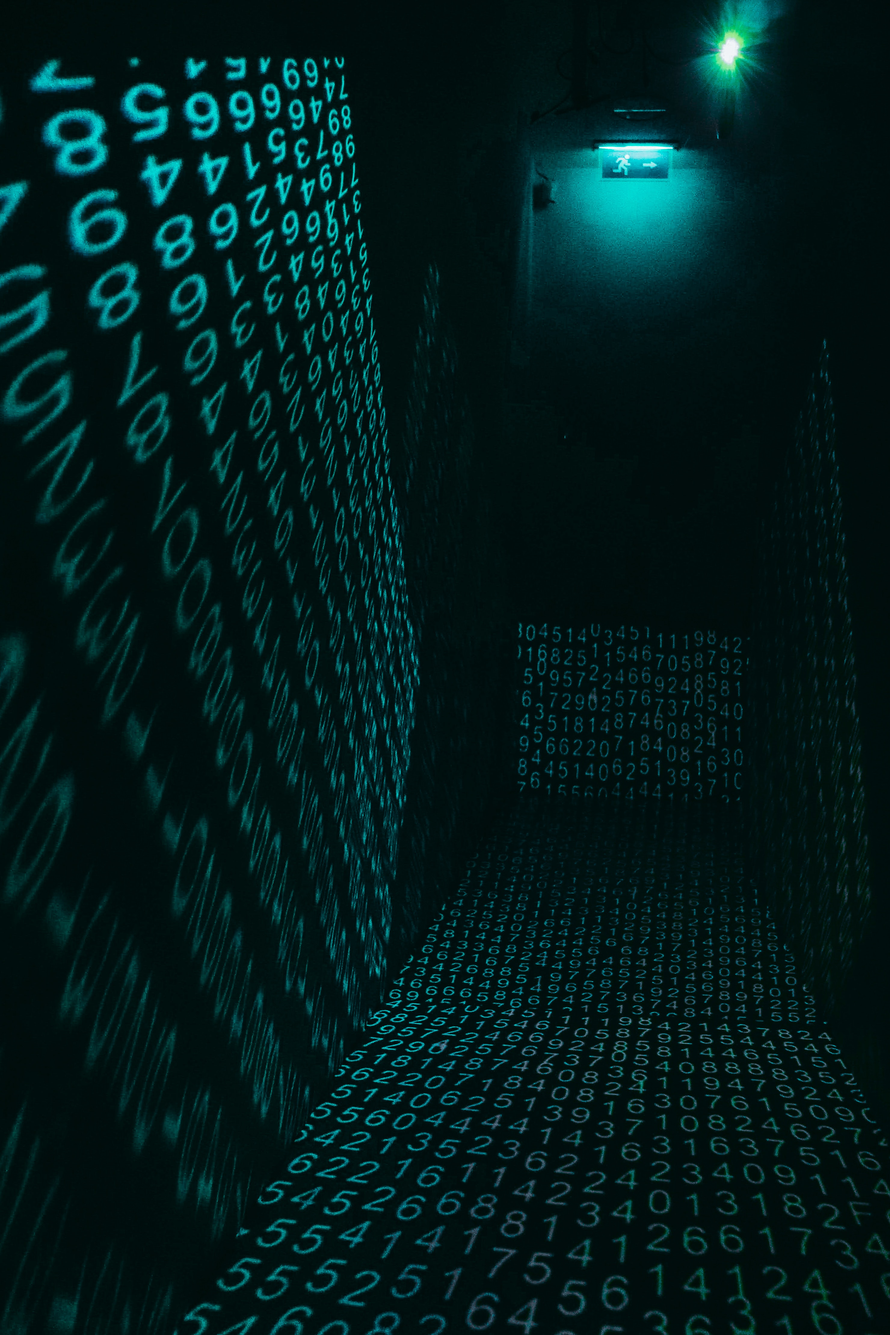
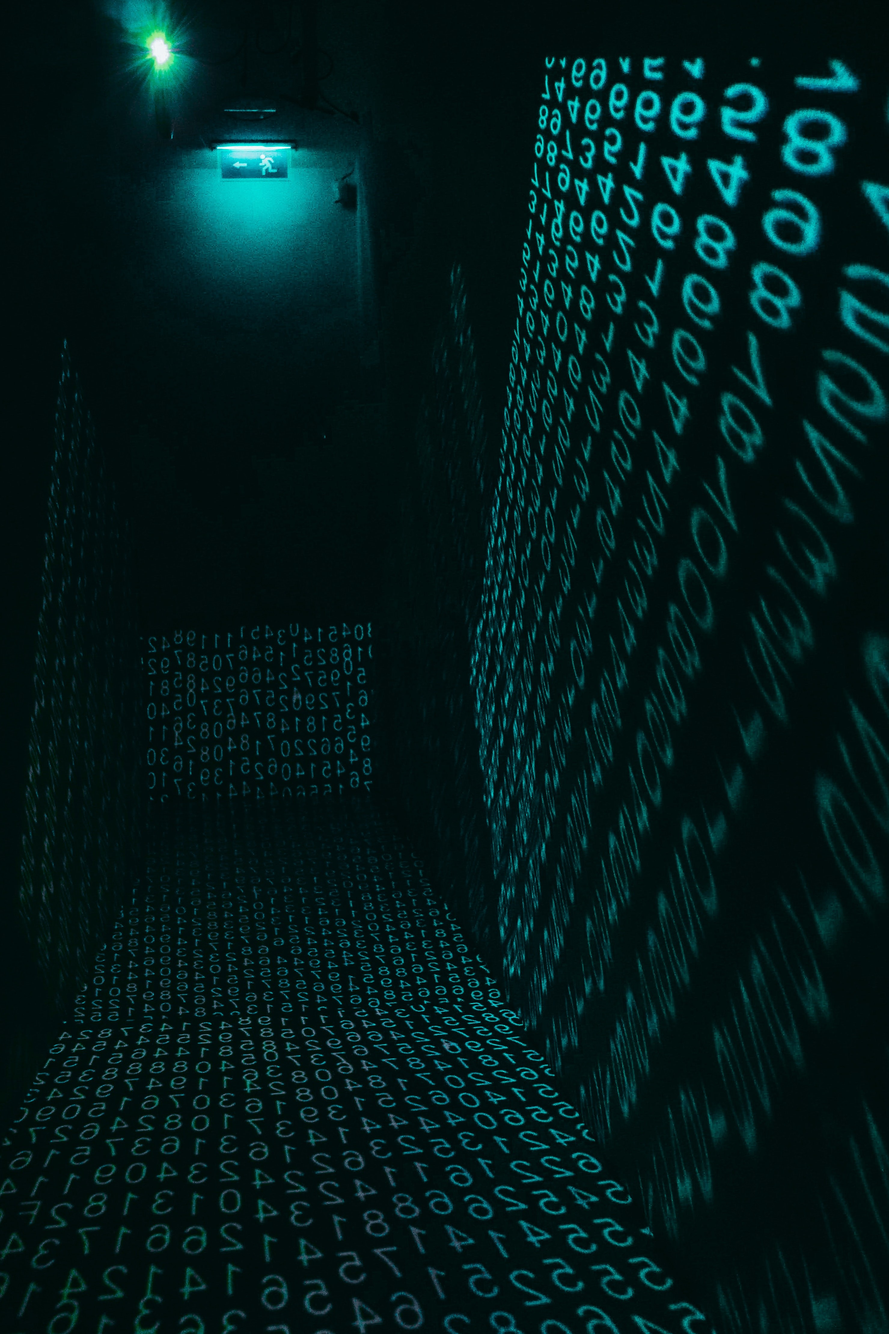
fixed the background

diff --git a/secret_assignment_for_FIU.html b/secret_assignment_for_FIU.html
@@ -12,44 +12,48 @@
 
 		}
 		#title{
-			color: rgba(97, 164, 192, 0.8);
+			color: rgba(21, 10, 110, 0.8);
 			/*background-color: rgba(255,255,255,0.1);*/
 		}
 		.items{
-			color: rgba(97, 164, 192, 0.8);
+			color: rgba(21, 10, 110, 0.8);
 		}
 		.answer{
-			color: rgba(97, 164, 192, 0.8);
+			color: rgba(21, 10, 110, 0.8);
 		}
 
 		#GFG{
-			height: 100vh;
-            display: flex;
+			
+			/*height: 100vh;
+            /*display: flex;*/
             align-items: center;
             justify-content: center;
+
+
+          	top:0; 
+          	left:0; 
+          	width:800px; 
+          	background-color: rgba(255, 255, 255, 0.5);; 
+
 		}
 		#GFG::before {
             content: "";
-            position: absolute;
-            top: 0px;
-            right: 0px;
-            bottom: 0px;
-            left: 0px;
-  
-            /* Specify the background image to be used 
-            background-image: url('./libraries/pexels-beyza-kaplan-8134609.jpg');
-            background-size: cover;
-            background-attachment: scroll;
-        	background-size: contain;
-        	background-position: center;
-  			*/
+            position:fixed;
+			left:0;
+			top:0;
+			right:0;
+			bottom:0;
+			z-index:-1;
+			display:block;
+
   			background: url(./libraries/pexels-beyza-kaplan-8134609.jpg);
 			-webkit-background-size: cover;
 			-moz-background-size: cover;
 			-o-background-size: cover;
 			background-size: cover;
+			background-repeat: repeat;
             /* Specify the background image */
-            opacity: 0.1;
+            opacity: 0.6;
         }
 
 		</style>
